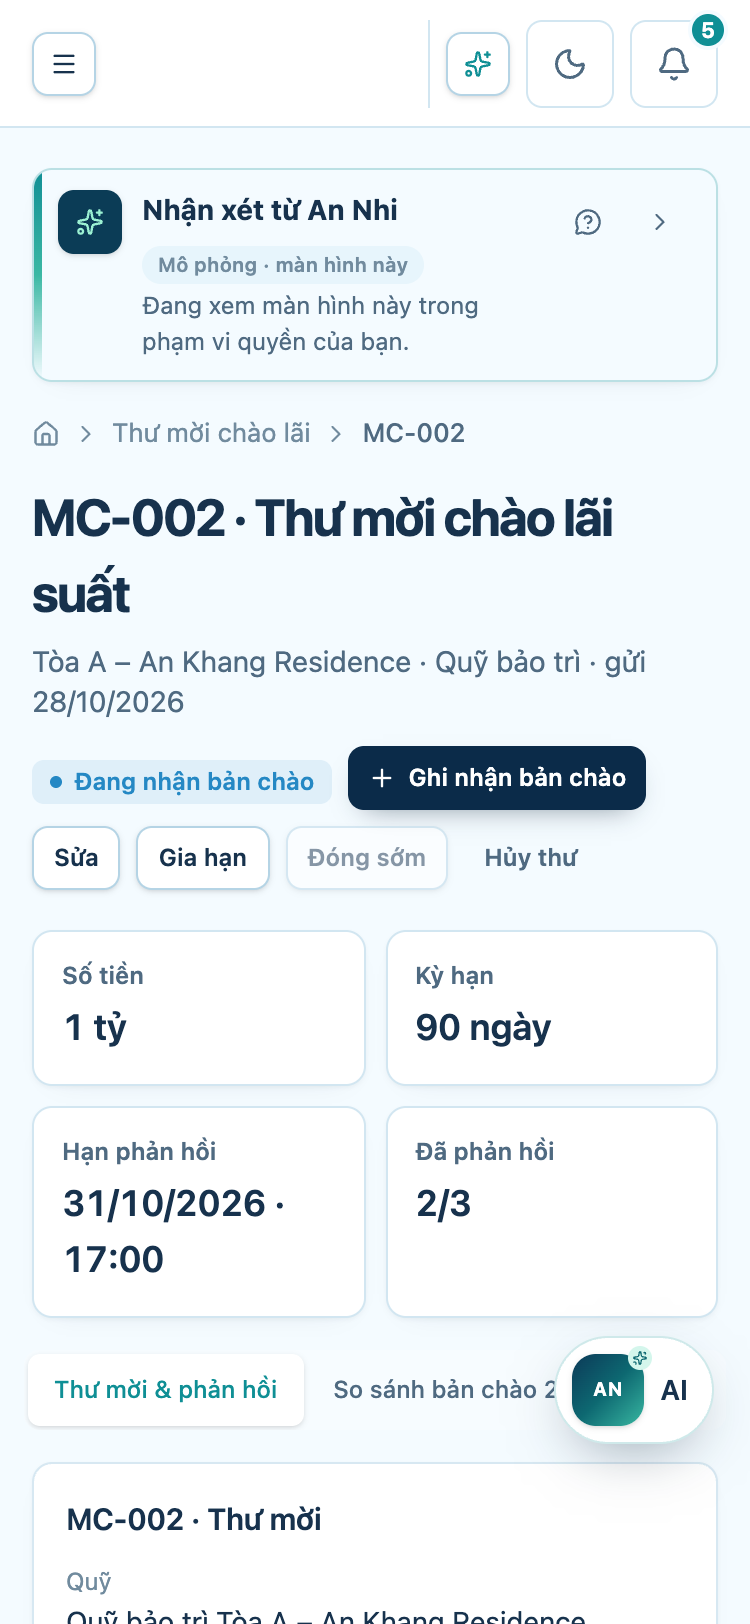
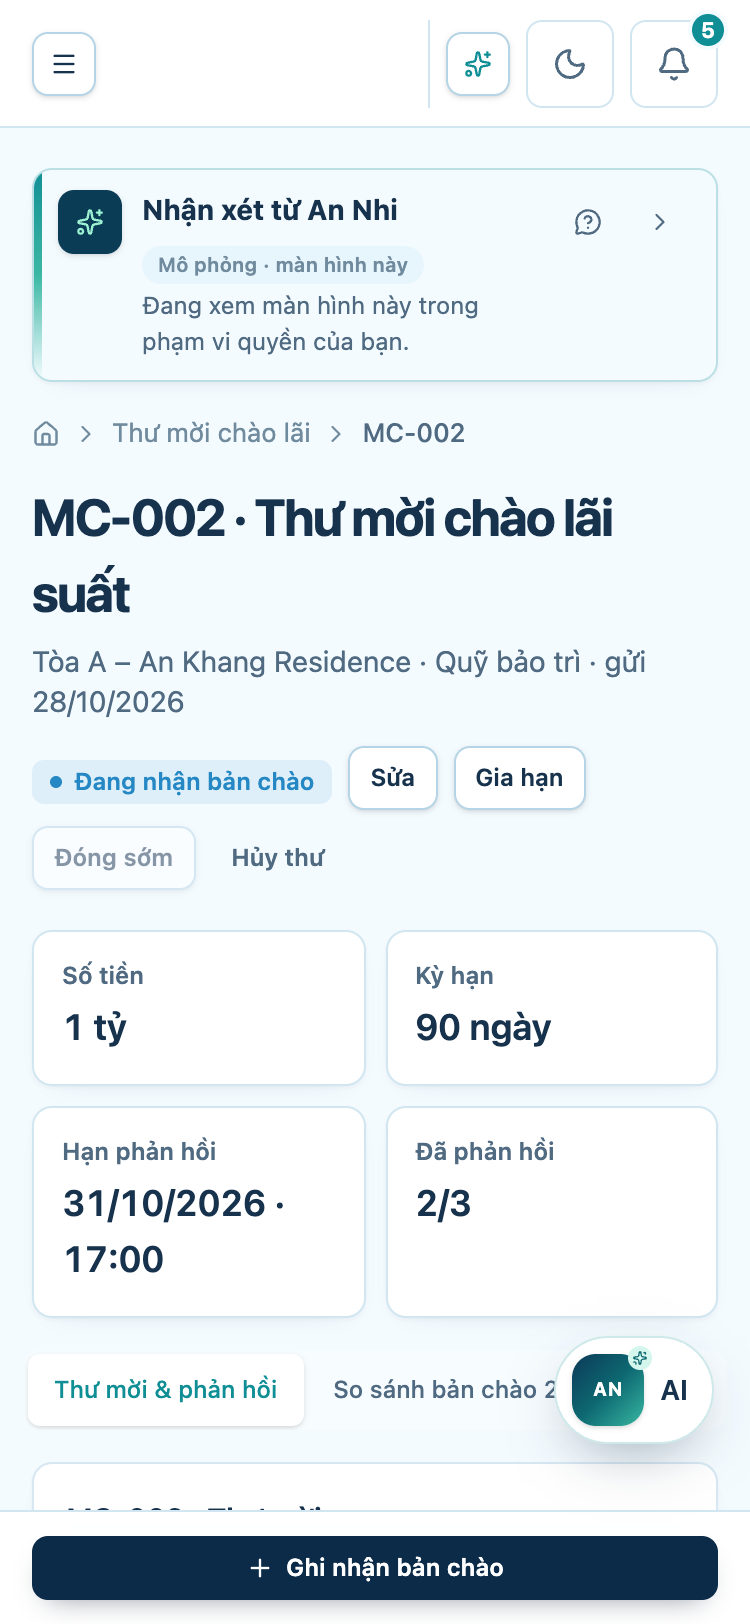
fix(web): T-S1 primary invitation action sticks to the bottom below 768px (F-T1-01)
The state's one primary action ('Ghi nhận gửi' / 'Ghi nhận bản chào')
moves to a fixed bottom bar on phones (ui-brief §3) and stays in the
header from 768px. The evidence script now checks at 375px that it is
the only visible one, fixed and flush with the bottom; T1-4 and T1-4b
retaken on a fresh database.

Changed region(s): [[0.0307, 0.9236, 0.9813, 1.0], [0.0613, 0.4618, 0.8587, 0.5542]]

diff --git a/web/src/features/deposit/components/InvitationActions.tsx b/web/src/features/deposit/components/InvitationActions.tsx
@@ -1,15 +1,29 @@
-import { useState } from 'react';
+import { useState, type ReactNode } from 'react';
 import { Plus } from 'lucide-react';
 import { ReasonDialog } from '@/components/common/ReasonDialog';
 import { Button } from '@/components/ui/button';
 import type { useCommand } from '@/hooks/useCommand';
-import type { InvitationDetail } from '@/services/deposit-api';
+import type { InvitationDetail, InvitationStatus } from '@/services/deposit-api';
 import { ExtendDialog } from '@/features/exploitation/components/ExtendDialog';
 import { InvitationFormDialog } from './InvitationFormDialog';
 import { OfferDialog } from './OfferDialog';
 import { SendDialog } from './SendDialog';
 
 type Open = 'edit' | 'send' | 'offer' | 'extend' | 'close' | 'cancel' | null;
+
+/** The one primary action of a state (ui-brief §0); below 768px it sits in a bar stuck to the bottom (§3). */
+const PRIMARY: Partial<Record<InvitationStatus, { label: ReactNode; open: Exclude<Open, null> }>> = {
+  DRAFT: { label: 'Ghi nhận gửi', open: 'send' },
+  OPEN: {
+    label: (
+      <>
+        <Plus className="h-4 w-4" />
+        Ghi nhận bản chào
+      </>
+    ),
+    open: 'offer',
+  },
+};
 
 interface InvitationActionsProps {
   detail: InvitationDetail;
@@ -31,16 +45,17 @@ export const InvitationActions = ({ detail, command, online }: InvitationActions
       .execute({ subjectType: 'DEPOSIT_INVITATION', subjectId: invitation.id, expectedVersion: invitation.version, action, payload: { reason: text } })
       .then((result) => (result ? close() : undefined));
   const status = invitation.status;
+  const primary = PRIMARY[status];
   const everyoneAnswered = detail.progress.invited > 0 && detail.progress.responded === detail.progress.invited;
   return (
     <>
-      {status === 'DRAFT' ? (
-        <Button size="sm" disabled={!online} onClick={() => show('send')}>
-          Ghi nhận gửi
+      {primary ? (
+        <Button size="sm" className="hidden md:inline-flex" disabled={!online} onClick={() => show(primary.open)}>
+          {primary.label}
         </Button>
       ) : null}
-      {status === 'OPEN' || status === 'CLOSED' ? (
-        <Button size="sm" variant={status === 'OPEN' ? 'primary' : 'secondary'} disabled={!online} onClick={() => show('offer')}>
+      {status === 'CLOSED' ? (
+        <Button size="sm" variant="secondary" disabled={!online} onClick={() => show('offer')}>
           <Plus className="h-4 w-4" />
           Ghi nhận bản chào
         </Button>
@@ -64,6 +79,13 @@ export const InvitationActions = ({ detail, command, online }: InvitationActions
         <Button size="sm" variant="ghost" disabled={!online} onClick={() => show('cancel')}>
           Hủy thư
         </Button>
+      ) : null}
+      {primary ? (
+        <div className="fixed inset-x-0 bottom-0 z-20 border-t border-line bg-surface px-4 py-3 shadow-card md:hidden">
+          <Button className="w-full" disabled={!online} onClick={() => show(primary.open)}>
+            {primary.label}
+          </Button>
+        </div>
       ) : null}
       {open === 'edit' ? <InvitationFormDialog detail={detail} onClose={close} /> : null}
       {open === 'send' ? <SendDialog detail={detail} onEdit={() => show('edit')} onClose={close} /> : null}

diff --git a/docs/product/features/T-chao-lai-chon-ngan-hang/handoff.md b/docs/product/features/T-chao-lai-chon-ngan-hang/handoff.md
@@ -119,5 +119,16 @@
 ### Còn lại / lưu ý cho review
 
 - `beforeAll` của e2e T-S1 có thời hạn 120 giây. Lý do: khởi động (migration và seed) cộng 5 lần đăng nhập vượt 30 giây khi máy tải cao.
-- Ở dưới 768px, nút chính chưa dính đáy màn hình như ui-brief §3; các nút nằm trong đầu trang và tự xuống dòng. Không cuộn ngang.
 - Chưa có test component cho các hộp thoại soạn và gửi thư, bản chào, đề xuất. Luồng của chúng được e2e API và script trình duyệt phủ.
+
+### Sửa sau review (F-T1-01)
+
+- **Lỗi:** ở dưới 768px, nút chính chưa dính đáy màn hình (ui-brief §3).
+- **Đã sửa** ở `InvitationActions.tsx`:
+  - Mỗi trạng thái có một nút chính: Nháp là "Ghi nhận gửi", Đang nhận bản chào là "Ghi nhận bản chào".
+  - Dưới 768px, nút này nằm trong một thanh `fixed` ở đáy màn hình, rộng hết thanh. Từ 768px trở lên, nút vẫn ở đầu trang như trước.
+  - Lề dưới `pb-24` sẵn có của khung trang giữ nội dung không bị thanh che.
+- **Bằng chứng:**
+  - Đã chạy lại script trên DB mới và chụp lại ảnh T1-4, T1-4b.
+  - Script nay kiểm thêm: ở 375px chỉ có **một** nút "Ghi nhận bản chào" hiện ra, nằm trong thanh `position: fixed`, sát đáy (khoảng cách 0px); không cuộn ngang.
+  - Kết quả: `{"position":"fixed","gap":0,"visible":1}`, `PASS`.
